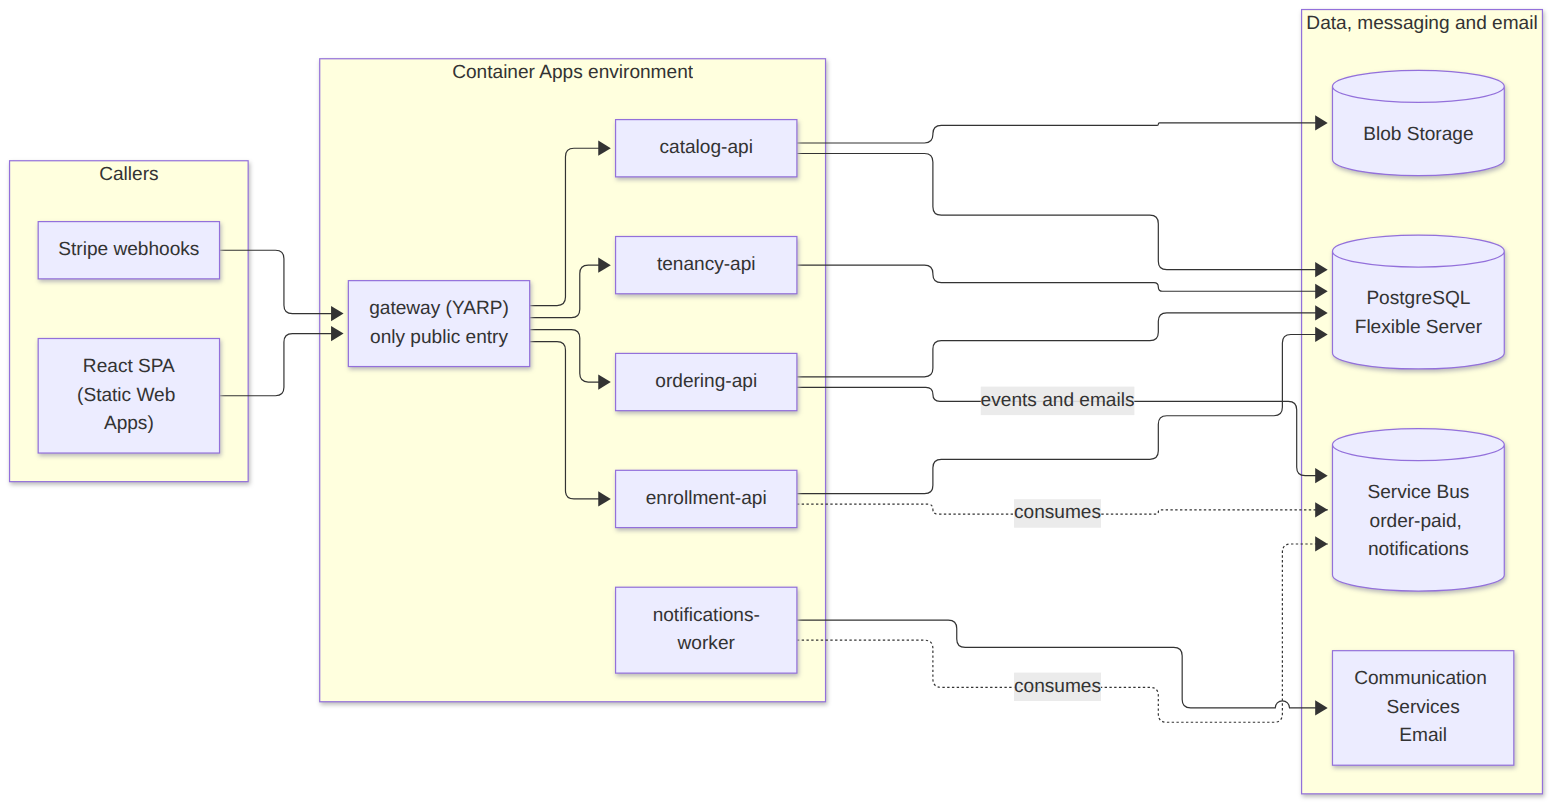
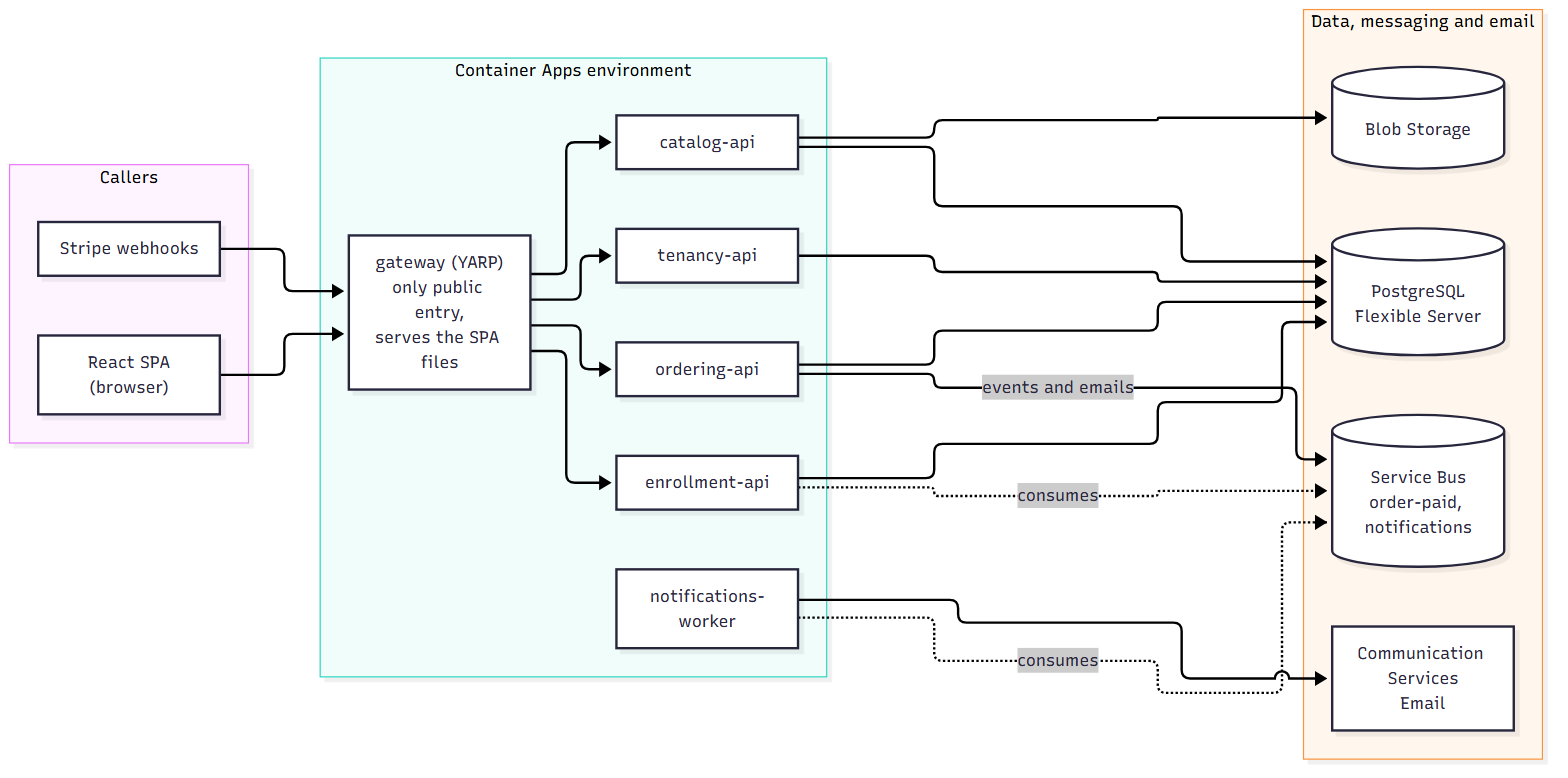
docs: move to Italy North and serve the SPA from the gateway (#1)
The student subscription only allows five regions, none of which offer
Static Web Apps. Design v6 hosts the SPA in the gateway (runtime
/config.json keeps build-once-promote), drops CORS, and records the
region. Bootstrap defaults to italynorth and disables Git Bash path
conversion, which broke the role-assignment scopes.

diff --git a/docs/design.md b/docs/design.md
@@ -2,7 +2,9 @@
 
 **Thesis:** Design and Implementation of a Multi-Tenant B2B2C Cloud-Native SaaS Platform
 **Case study:** Athlos, a fitness marketplace. Coaches are tenants who open a workspace and sell programs. Customers browse and buy programs from any coach, like a big e-shop.
-**Status:** v5, ready to build (2026-09-26)
+**Status:** v6, building (2026-09-27)
+
+**Changes in v6:** region is **Italy North**, and the SPA is served by the gateway instead of Azure Static Web Apps. The University of Thessaly subscription only allows `italynorth`, `polandcentral`, `denmarkeast`, `belgiumcentral` and `switzerlandnorth`, and Static Web Apps is offered in none of them (§8.1, §10).
 
 **Changes in v5:** user accounts (sign-up, email verification, password reset, profile, account deletion) and transactional email through a small notifications-worker and Azure Communication Services (§5.2, §5.3).
 
@@ -31,11 +33,12 @@
 | Identity | Microsoft Entra External ID | Free up to 50,000 monthly active users; sign-up, email verification and password reset built in |
 | Email | Azure Communication Services Email, Azure-managed sender domain | Fractions of a cent per email; order and enrollment emails, staff invites |
 | Payments | Stripe Connect (Express accounts) + Stripe Checkout, test mode | The B2B2C money flow: customer pays, coach gets paid, platform keeps a fee |
-| Frontend hosting | Azure Static Web Apps, Free | €0 |
+| Frontend hosting | Static files served by the gateway container | €0, same origin as the API (no CORS), headers set in code. Static Web Apps is not offered in the regions the subscription allows (§8.1) |
 | Files (program media) | Azure Blob Storage | Pennies per month |
 | Secrets | Azure Key Vault + managed identities | No connection strings or passwords in config |
 | Observability | OpenTelemetry → Application Insights / Log Analytics | Vendor-neutral instrumentation, Azure backend |
 | IaC | Bicep (hand-written small modules) | Native Azure, readable in a thesis |
+| Region | Italy North (`italynorth`) | Closest allowed region to Greece; the subscription's policy allows only five regions (§10) |
 | Environments | **dev, staging, prod** in Azure, plus local (Aspire) | Staging is a prod-like rehearsal of every release |
 | CI/CD | GitHub Actions with OIDC to Azure; `dev` and `main` branches; SemVer release tags | No stored cloud secrets; build once, promote the same image dev → staging → prod |
 | Tests | xUnit v3, Testcontainers, k6 for load | Real PostgreSQL in tests, tenant-isolation and noisy-neighbor experiments |
@@ -78,6 +81,7 @@ Read it left to right: callers, the gateway and services, then the data stores t
 <sub>Source: [diagrams/02-architecture-overview.mmd](diagrams/02-architecture-overview.mmd)</sub>
 
 - Only the gateway has external ingress. All four APIs use **internal ingress** and the notifications-worker has no ingress at all, so the internet cannot reach them directly.
+- The gateway also serves the SPA's static files (§8.1), so the browser talks to one origin.
 - Not drawn, to keep the picture readable: the SPA signs users in with **Entra External ID**; ordering-api creates Checkout sessions on **Stripe**; every container app pulls its image from **Container Registry**, reads secrets from **Key Vault** with a managed identity, and sends OpenTelemetry data to **App Insights**; a **db-migrator** Container Apps Job applies migrations and RLS policies on each deploy.
 
 ### 2.1 Services
@@ -236,8 +240,8 @@ The shared B1ms database is itself a noisy-neighbor story: without limits, tenan
 
 ### 5.1 Security checklist
 
-- HTTPS only; HSTS and basic security headers (`X-Content-Type-Options`, `Referrer-Policy`, a Content Security Policy on the SPA via `staticwebapp.config.json`).
-- CORS on the gateway allows only the Static Web App origin of that environment.
+- HTTPS only; HSTS and basic security headers (`X-Content-Type-Options`, `Referrer-Policy`, a Content Security Policy on the SPA, all set by the gateway, which serves the SPA).
+- No CORS: the SPA and the API share the gateway's origin. Local development uses the Vite dev-server proxy, so CORS stays off there too.
 - Stripe webhooks: verify the `Stripe-Signature` header with the signing secret, reject events older than 5 minutes, dedupe on event id.
 - No secrets in the repo, ever. Local secrets live in .NET user secrets or in Aspire parameters; Azure secrets in Key Vault. Enable GitHub secret scanning and push protection.
 - Upload limits: content-type allow-list and size cap for media; SAS URLs expire within 15 minutes.
@@ -313,7 +317,7 @@ athlos/
 │  ├─ prod.bicepparam
 │  └─ modules/ monitoring.bicep, registry.bicep, keyvault.bicep, postgres.bicep,
 │              servicebus.bicep, storage.bicep, email.bicep, aca-env.bicep, container-app.bicep,
-│              identity.bicep, static-web-app.bicep, budget.bicep
+│              identity.bicep, budget.bicep
 ├─ src/
 │  ├─ AppHost/                 # Aspire orchestration (local only)
 │  ├─ ServiceDefaults/         # OpenTelemetry, health, resilience, service discovery
@@ -358,7 +362,7 @@ athlos/
 
 **Code conventions:** nullable on, warnings (including analyzer warnings) as errors, EF Core with `UseSnakeCaseNamingConvention()` so tables and columns are idiomatic PostgreSQL, built-in `Microsoft.AspNetCore.OpenApi` for OpenAPI docs, Scalar for the API explorer UI, `ProblemDetails` for errors, built-in minimal API validation for input. Short ADRs (Architecture Decision Records) in `docs/adr/` double as thesis material.
 
-**Containers without Dockerfiles:** use the .NET SDK's built-in container publishing (`dotnet publish /t:PublishContainer`), which produces small, non-root, chiseled Ubuntu images. The React app is static and goes to Static Web Apps, so no container there either.
+**Containers without Dockerfiles:** use the .NET SDK's built-in container publishing (`dotnet publish /t:PublishContainer`), which produces small, non-root, chiseled Ubuntu images. The React app has no container of its own: its Vite build is copied into the gateway's `wwwroot` when the gateway image is published (§8.1).
 
 ### 7.1 API conventions
 
@@ -396,6 +400,14 @@ One SPA with four areas:
 
 The footer shows the running version (from the gateway's `/version` endpoint), which makes releases visible in demos.
 
+### 8.1 Hosting: served by the gateway
+
+The Vite build is part of the gateway image. The gateway serves it with ASP.NET Core static files (`MapStaticAssets`, which adds compression and fingerprinted caching), falls back to `index.html` for client-side routes, and sends the security headers from §5.1. API routes (`/api/...`, `/webhooks/...`, `/health/...`, `/version`) are matched first, so the fallback never hides an API 404.
+
+**Build once, promote still holds.** Anything that differs per environment (Entra client id and authority, API scopes) is not baked into the bundle. The gateway serves it at `GET /config.json` from its own environment variables, and the SPA fetches it before rendering. The same image runs in dev, staging and prod.
+
+**Why not Static Web Apps:** it is offered only in a few regions (West US 2, Central US, East US 2, West Europe, East Asia), and the student subscription's policy allows none of them. Blob Storage static websites were the other option, but they cannot set response headers (no CSP) and answer client-side routes with a 404 status. Serving from the gateway costs nothing extra, removes CORS entirely, and is one less resource per environment. The trade-off: the SPA has no global CDN, and a gateway cold start also delays the first page load. Both are acceptable for the thesis and are named as future work (Front Door or a CDN in front of the gateway).
+
 ---
 
 ## 9. Compute: Container Apps vs AKS
@@ -421,7 +433,7 @@ Azure for Students gives $100 of credit for 12 months **and** a set of free serv
 - **Azure Database for PostgreSQL Flexible Server:** 750 hours/month of Burstable B1ms, 32 GB storage, 32 GB backup storage.
 - **Azure Container Registry:** one Standard registry with 100 GB storage.
 
-Other prices are from the Azure Retail Prices API, West Europe, EUR, pay-as-you-go, checked the same day.
+Other prices are from the Azure Retail Prices API, West Europe, EUR (Italy North prices are within a few percent), pay-as-you-go, checked the same day.
 
 | Resource | SKU / setting | €/month |
 |---|---|---|
@@ -430,7 +442,6 @@ Other prices are from the Azure Retail Prices API, West Europe, EUR, pay-as-you-
 | Container Apps | Three Consumption environments (dev, staging, prod), 6 apps each, `minReplicas: 0`. Free grant per subscription per month: 180,000 vCPU-s, 360,000 GiB-s, 2M requests | 0–2 |
 | Container Apps Jobs | db-migrator, runs for seconds per deploy | ~0 |
 | Service Bus | Basic, one namespace per environment, €0.0429 per million operations | ~0.01 |
-| Static Web Apps | Free, one per environment | 0 |
 | Storage accounts | Blob, LRS, a few GB, one per environment | <0.50 |
 | Key Vault | Standard, one per environment | <0.10 |
 | Log Analytics + App Insights | One shared workspace, first 5 GB/month free, daily cap 0.15 GB | 0–1 |
@@ -453,7 +464,7 @@ That leaves most of the €100 unused, which is a comfortable buffer for load te
 **If the free services do not apply** (check once in the portal under *Free services*, where the B1ms hours and the registry should be listed): B1ms plus 32 GB storage would cost roughly €15/month and ACR Standard €17/month (€0.5724/day). That would break the budget, and the fallback would be one database server for prod only (dev runs locally with Aspire) plus GitHub Container Registry. The B1ms figure is an estimate; the price sheet did not return it today.
 
 **Also check once:**
-- Azure for Students subscriptions often restrict regions by policy. Pick an allowed EU region (West Europe, North Europe or Sweden Central) and use it for everything.
+- Azure for Students subscriptions often restrict regions by policy. **Checked 2026-09-27:** this subscription allows only `italynorth`, `polandcentral`, `denmarkeast`, `belgiumcentral` and `switzerlandnorth`. Athlos uses **Italy North** for everything; B1ms, PostgreSQL 17, Container Apps, Service Bus, ACR, Key Vault and Log Analytics are all available there.
 - Free services end after 12 months, together with the credit. Plan the thesis evaluation inside that window.
 
 ---
@@ -519,9 +530,9 @@ Authentication to Azure is **OIDC federated credentials** (`azure/login` with `c
 | Workflow | Trigger | Steps |
 |---|---|---|
 | `ci.yml` | PR to `dev` or `main` | `dotnet build` + `dotnet test` (unit, integration, isolation; Testcontainers on the hosted runner); frontend lint, type-check, `vitest`, `vite build`; `az bicep lint` + `what-if` when `infra/**` changed |
-| `deploy-dev.yml` | push to `dev` | build and test → publish images tagged `sha-<short>` to the registry → Bicep deploy `env.bicep` with `dev.bicepparam` → run db-migrator job → deploy SPA to the dev Static Web App → smoke test `/health` |
-| `deploy-staging.yml` | push to `main` | find the images for the merged `dev` commit (the merge commit's second parent); for a hotfix, build them → Bicep deploy with `staging.bicepparam` → run db-migrator job → deploy SPA to staging → smoke test → Playwright end-to-end tests |
-| `release-prod.yml` | tag `v*` pushed (from a GitHub Release), or manual with a tag input for rollback | read the image tags staging is running → add the version tag → **wait for approval** → Bicep deploy with `prod.bicepparam` → run db-migrator job → deploy SPA to prod → smoke test |
+| `deploy-dev.yml` | push to `dev` | build and test → publish images tagged `sha-<short>` to the registry → Bicep deploy `env.bicep` with `dev.bicepparam` → run db-migrator job → smoke test `/health` and the SPA (the SPA ships inside the gateway image) |
+| `deploy-staging.yml` | push to `main` | find the images for the merged `dev` commit (the merge commit's second parent); for a hotfix, build them → Bicep deploy with `staging.bicepparam` → run db-migrator job → smoke test → Playwright end-to-end tests |
+| `release-prod.yml` | tag `v*` pushed (from a GitHub Release), or manual with a tag input for rollback | read the image tags staging is running → add the version tag → **wait for approval** → Bicep deploy with `prod.bicepparam` → run db-migrator job → smoke test |
 
 ![Promotion from dev to staging to prod](diagrams/06-release-pipeline.png)
 
@@ -574,6 +585,7 @@ To keep it modern without bloat, these are named in the thesis as options, not b
 | A branch per environment | Environments are promoted by tags, not by merging between branches (§12.1) |
 | Video hosting and streaming | Bandwidth and transcoding cost; workouts link to an external video host |
 | Terraform | Bicep matches the Microsoft-first choice |
+| Static Web Apps | Not offered in the regions the subscription allows; the gateway serves the SPA (§8.1) |
 
 ---
 

diff --git a/infra/README.md b/infra/README.md
@@ -9,7 +9,7 @@ Everything Bicep and the workflows cannot create for themselves is done once by 
 ### 1. Check the subscription (portal, once)
 
 - **Free services:** Azure for Students > *Free services* must list *Azure Database for PostgreSQL Flexible Server* (750 h B1ms) and *Container Registry* (Standard). If they are missing, stop: the budget in design §10 no longer holds.
-- **Allowed regions:** Student subscriptions often restrict regions by policy. Check *Policy > Assignments* and pick one allowed EU region (West Europe, North Europe or Sweden Central). Use it for everything (`LOCATION`, default `westeurope`).
+- **Allowed regions:** Student subscriptions often restrict regions by policy. Check *Policy > Assignments* and pick one allowed EU region and use it for everything (`LOCATION`). The University of Thessaly subscription allows only `italynorth`, `polandcentral`, `denmarkeast`, `belgiumcentral` and `switzerlandnorth`; Athlos uses `italynorth` (closest to Greece; B1ms and PostgreSQL 17 available).
 - **App registrations:** the script creates three Entra app registrations. If the subscription belongs to a university directory that blocks app registrations for students, create the directory's apps by hand or ask IT. The rest of the script still applies.
 
 ### 2. Create the GitHub repository

diff --git a/CLAUDE.md b/CLAUDE.md
@@ -35,6 +35,7 @@ Master thesis project: a multi-tenant B2B2C fitness marketplace. Coaches are ten
 - Money is integer minor units plus a currency code.
 - Never store or handle passwords; Entra External ID owns sign-up, verification and password reset. App emails go only through the `notifications` queue and the notifications-worker; never log email addresses.
 - No secrets in the repo. Local: user secrets or Aspire parameters. Azure: Key Vault + managed identity.
+- Every Azure resource goes in `italynorth`; the subscription's policy blocks other regions (design §10). Static Web Apps is not available there, so the gateway serves the SPA and per-environment SPA settings come from `GET /config.json`, never from build-time variables (§8.1).
 - Budget is €100 for 12 months. Do not add Azure resources that are not in the design (no Redis, API Management, Front Door, a second PostgreSQL server, Service Bus Standard) without asking.
 
 ## Code style
